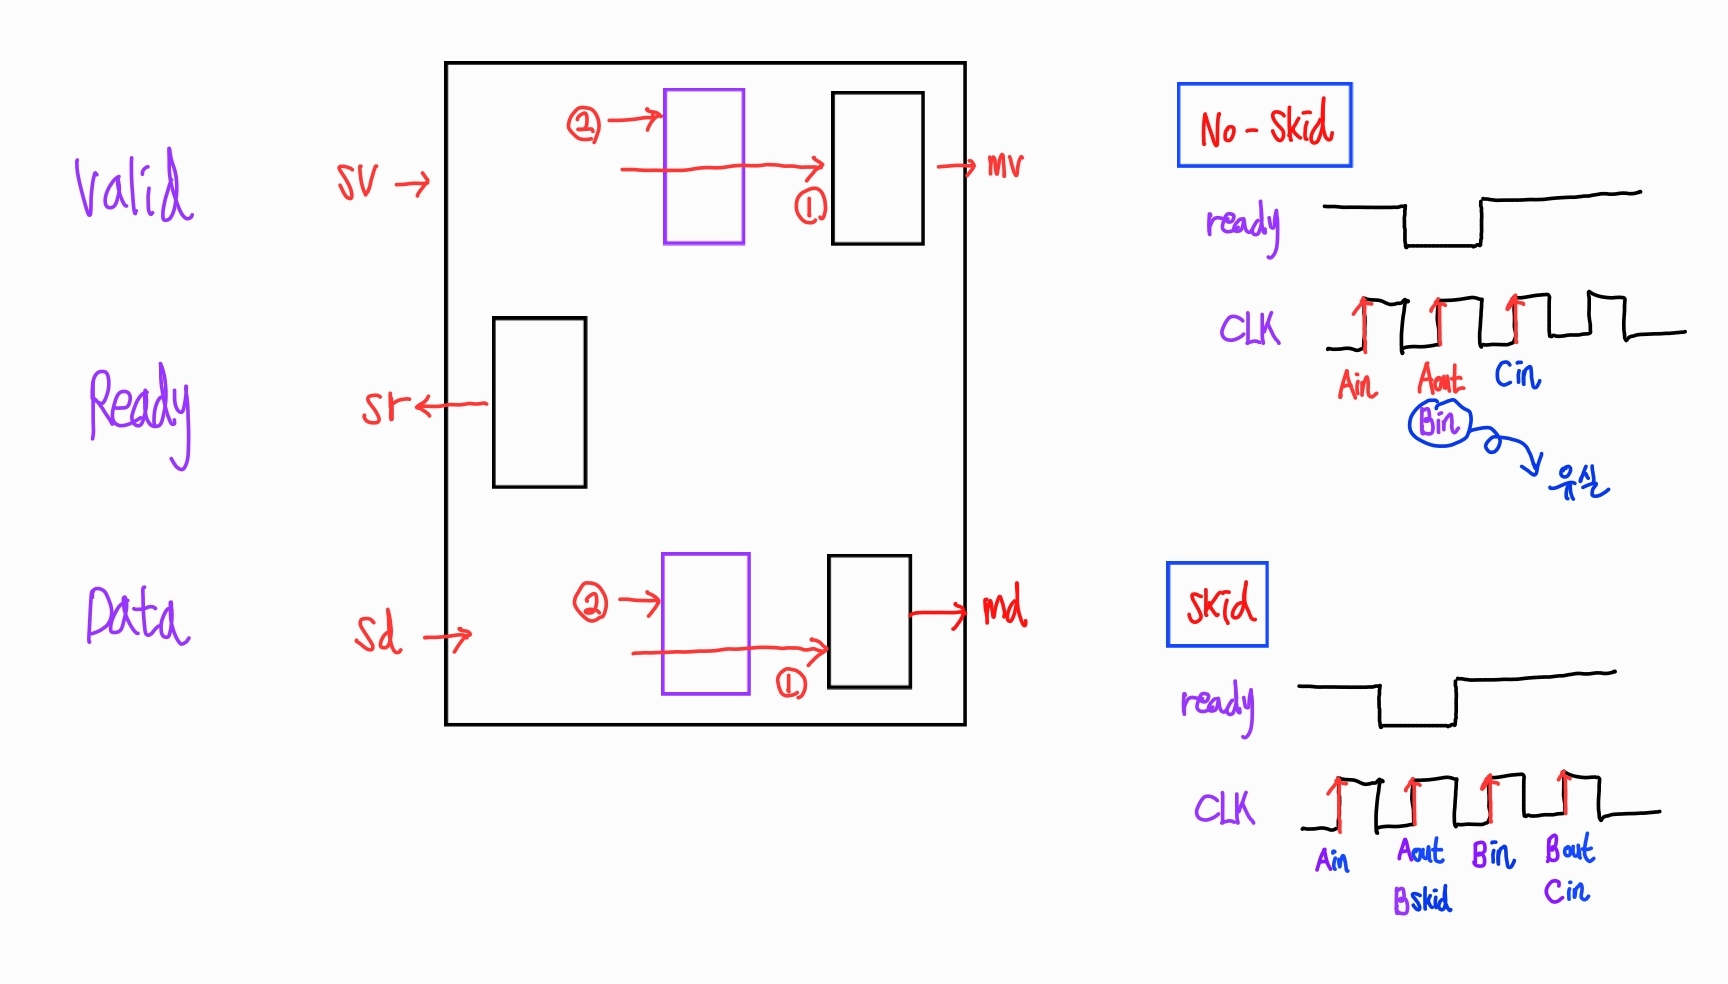
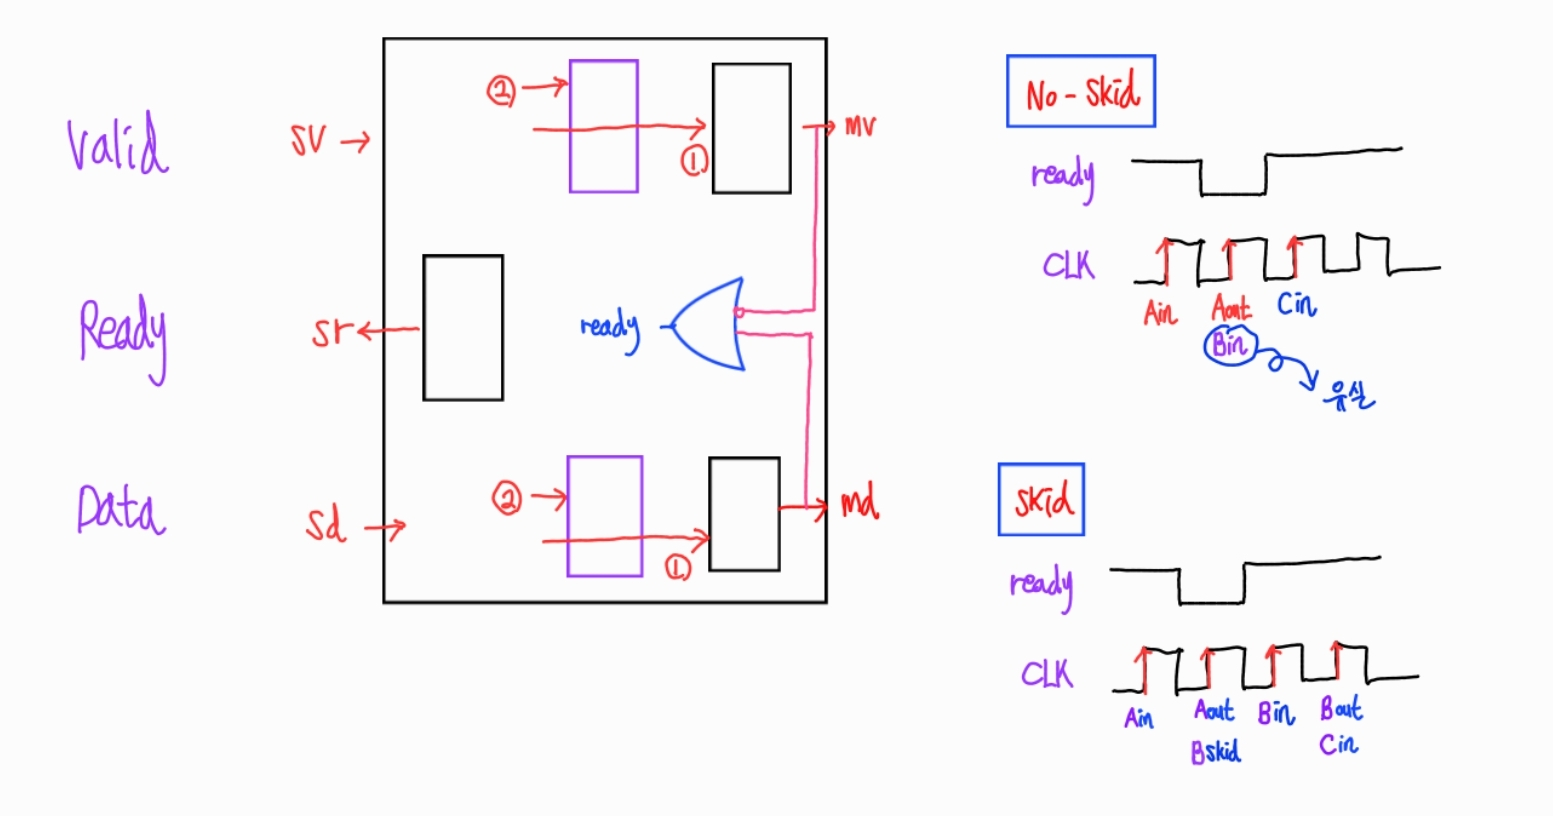
;

diff --git a/COM_IF/FIFO/Ready_Valid_HS/HandShake_IF.md b/COM_IF/FIFO/Ready_Valid_HS/HandShake_IF.md
@@ -40,9 +40,75 @@
 </table>
 
 - **ready = ~m_valid | m_ready**
-- ready는 **Combinational** Input인 반면, m_valid_o, m_data_o는 **Registered** Output이므로 **~ready 직전의 출력이 유실되는 문제가 발생함**
+- ready는 **Combinational** Input인 반면, w_valid_o, w_data_o는 **Registered** Output이므로 **~ready 직전의 출력이 유실되는 문제가 발생함**
 - 이 문제를 해결하기 위해 **Skid(보라색 F/F)** 도입
 - **Skid**는 ~ready(LOW) 상태에서만 활성화되는 **Pipe-Through 레지스터**로, ~ready(LOW) 가 지속되는 한 이전 데이터를 Skid에 저장하고 **Pipe Stall**; 이후, ready가 HIGH로 변하면 **SKID -> PIPE** 로 상태를 전이하면서 데이터를 넘김
+
+```verilog
+module skid
+#(parameter DWIDTH = 8)
+(
+	input clk, reset,
+	// slave side
+	input s_valid,
+	output s_ready,
+	input [DWIDTH-1:0] s_data,
+
+	// master side
+	output m_valid,
+	input m_ready,
+	output [DWIDTH-1:0] m_data
+);
+
+localparam PIPE = 1'b0;
+localparam SKID = 1'b1;
+reg state;
+
+reg s_valid_r, s_valid_d;
+reg s_ready_r;
+reg [DWIDTH-1:0] s_data_r, s_data_d;
+wire ready = ~m_valid | m_ready;
+
+always@(posedge clk) begin
+	if(reset) begin
+		s_valid_r <= 0; s_valid_d <= 0;
+		s_ready_r <= 0;
+		s_data_r <= 0; s_data_d <= 0;
+		state <= PIPE;
+	end else begin
+ 		case(state)
+			PIPE: begin
+				if(ready) begin
+					state <= PIPE;
+					s_data_r <= s_data;
+					s_valid_r <= s_valid;
+					s_ready_r <= 1'b1;
+				end else begin
+					state <= SKID;
+					s_data_d <= s_data;
+					s_valid_d <= s_valid;
+					s_ready_r <= 1'b0;
+				end
+			end
+			SKID: begin
+				if(ready) begin
+					state <= PIPE;
+					s_data_r <= s_data_d;
+					s_valid_r <= s_valid_d;
+					s_ready_r <= ready;
+				end
+			end
+		endcase
+	end
+end
+
+assign m_data = s_data_r;
+assign m_valid = s_valid_r;
+assign s_ready = s_ready_r;
+
+
+endmodule
+```
 
 ## 3. I/F 장단점
 

diff --git a/FPGA/TrobleShooting.md b/FPGA/TrobleShooting.md
@@ -15,7 +15,7 @@
   - HW 서버가 보안 프로그램에 막히는 경우
   - 케이블 연결 불량
 
-#### 비동기 리셋
+#### 비동기 리셋 관습 (포트명: reset_n)
 
 - xilinx coding convention은 비동기 리셋에서 **포트명: reset_n** 을 표준으로 함
-  - zynq-ip의 reset_n 포트를 customized ip의 rstn과 연결하면 invalid error가 발생할 수 있음
+  - zynq-ip의 reset_n 포트를 customized ip의 **rstn**과 연결하면 invalid error가 발생

diff --git a/COM_IF/FIFO/sync_fifo.md b/COM_IF/FIFO/sync_fifo.md
@@ -13,7 +13,7 @@
 - 채널 하나가 막히면 Split-Input이 멈추고, 이로 인해 새로운 입력도 멈추는 상황이 발생함 **(Deadlock)**
 - 이 문제는 채널 간 **Latency 차이만큼 FIFO DEPTH를 맞춰주는 것으로 해결 가능**
 
-#### 3. sync_fifo_skid.v (FIFO + Ready/Vaild HS)
+#### 3. sync_fifo_skid.v (FIFO + Ready/Vaild HS + Skid)
 
 <img src=img2.jpg width=500 height=300>
 
